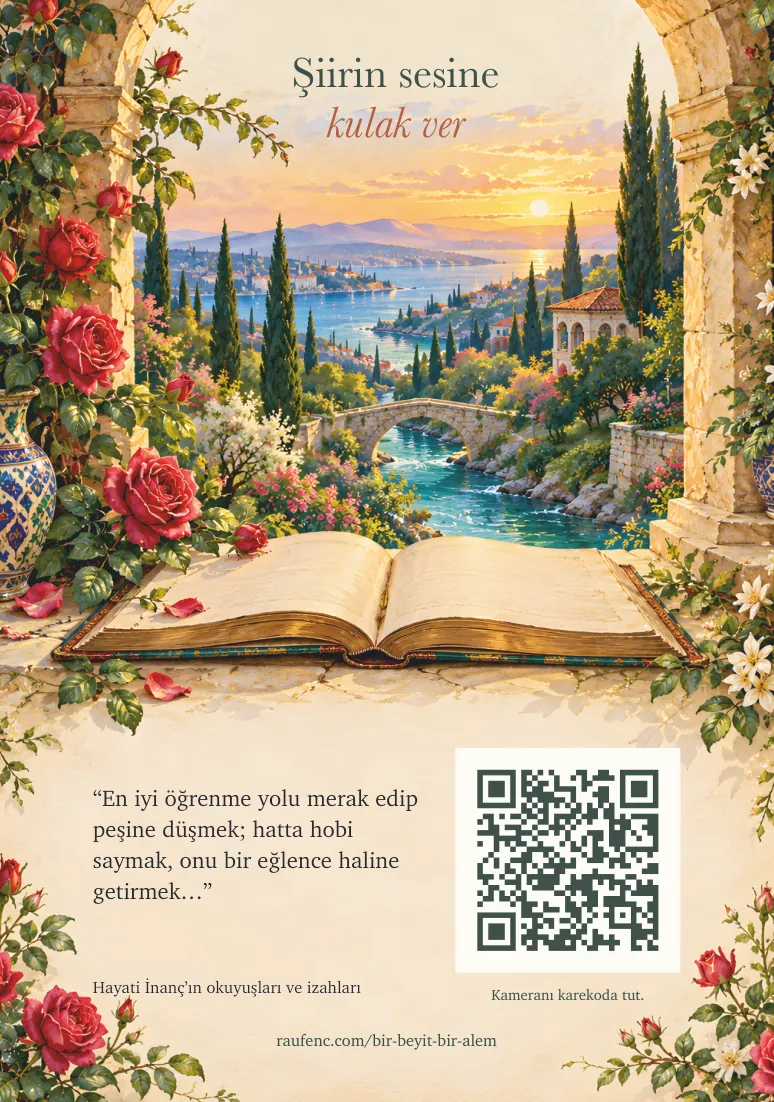
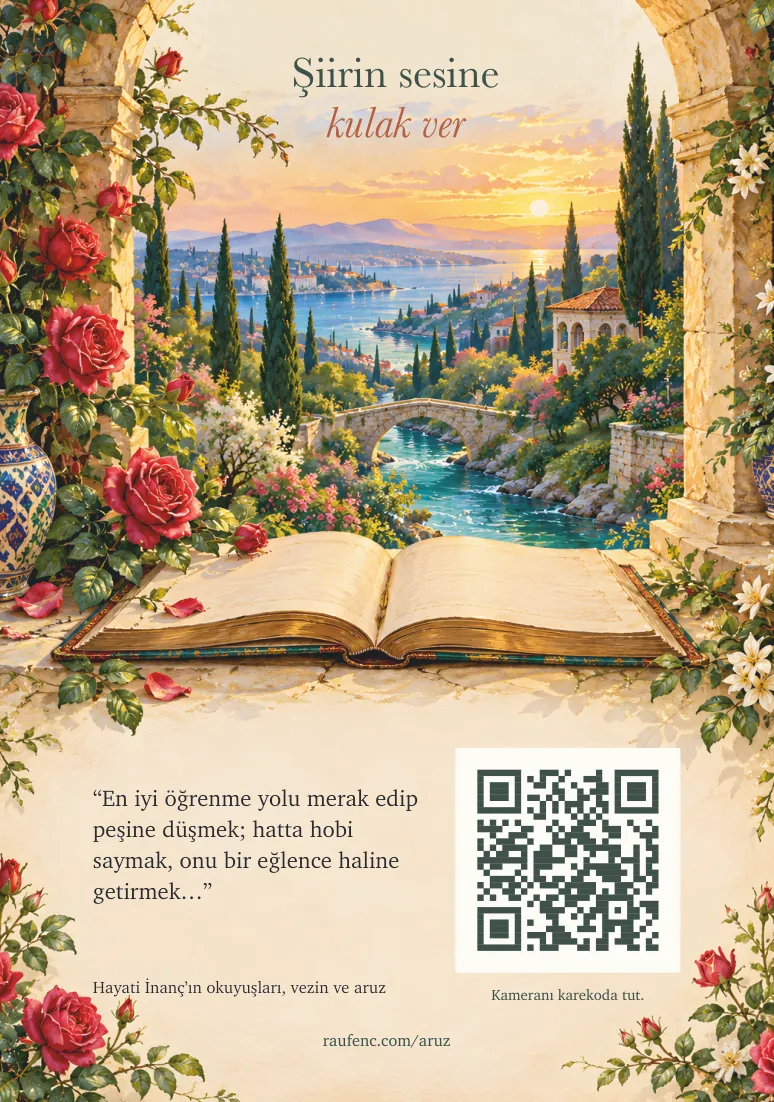
Geri bildirim flipbook'u: s.108 karekodu Fâilâtün'e, fihrist notu, arka kapak karekodu 52beyit'e

Changed region(s): [[0.6202, 0.6788, 0.8682, 0.8639], [0.3721, 0.8947, 0.6202, 0.9564]]

diff --git a/bbba-27r442jers/geri-bildirim/index.html b/bbba-27r442jers/geri-bildirim/index.html
@@ -122,7 +122,7 @@ textarea:focus{outline:none;border-color:var(--yesil)}
 <script>
 /* ================== kitap ================== */
 const ORAN = 165 / 235;
-const SURUM = '20261125d';   // sayfa resimleri değişince artır (tarayıcı önbelleği)
+const SURUM = '20261125e';   // sayfa resimleri değişince artır (tarayıcı önbelleği)
 const P = n => `s/${String(n).padStart(3, '0')}.webp?v=${SURUM}`;
 const ACILIM = [[null, {src: 's/on.webp?v=' + SURUM, ad: 'Ön kapak', k: 'on', kapak: 1}], [{bos: 1, ad: 'İç kapak'}, {src: P(1), ad: 's. 1', k: '1'}]];
 for (let n = 2; n <= 110; n += 2) ACILIM.push([{src: P(n), ad: 's. ' + n, k: String(n)}, {src: P(n + 1), ad: 's. ' + (n + 1), k: String(n + 1)}]);
